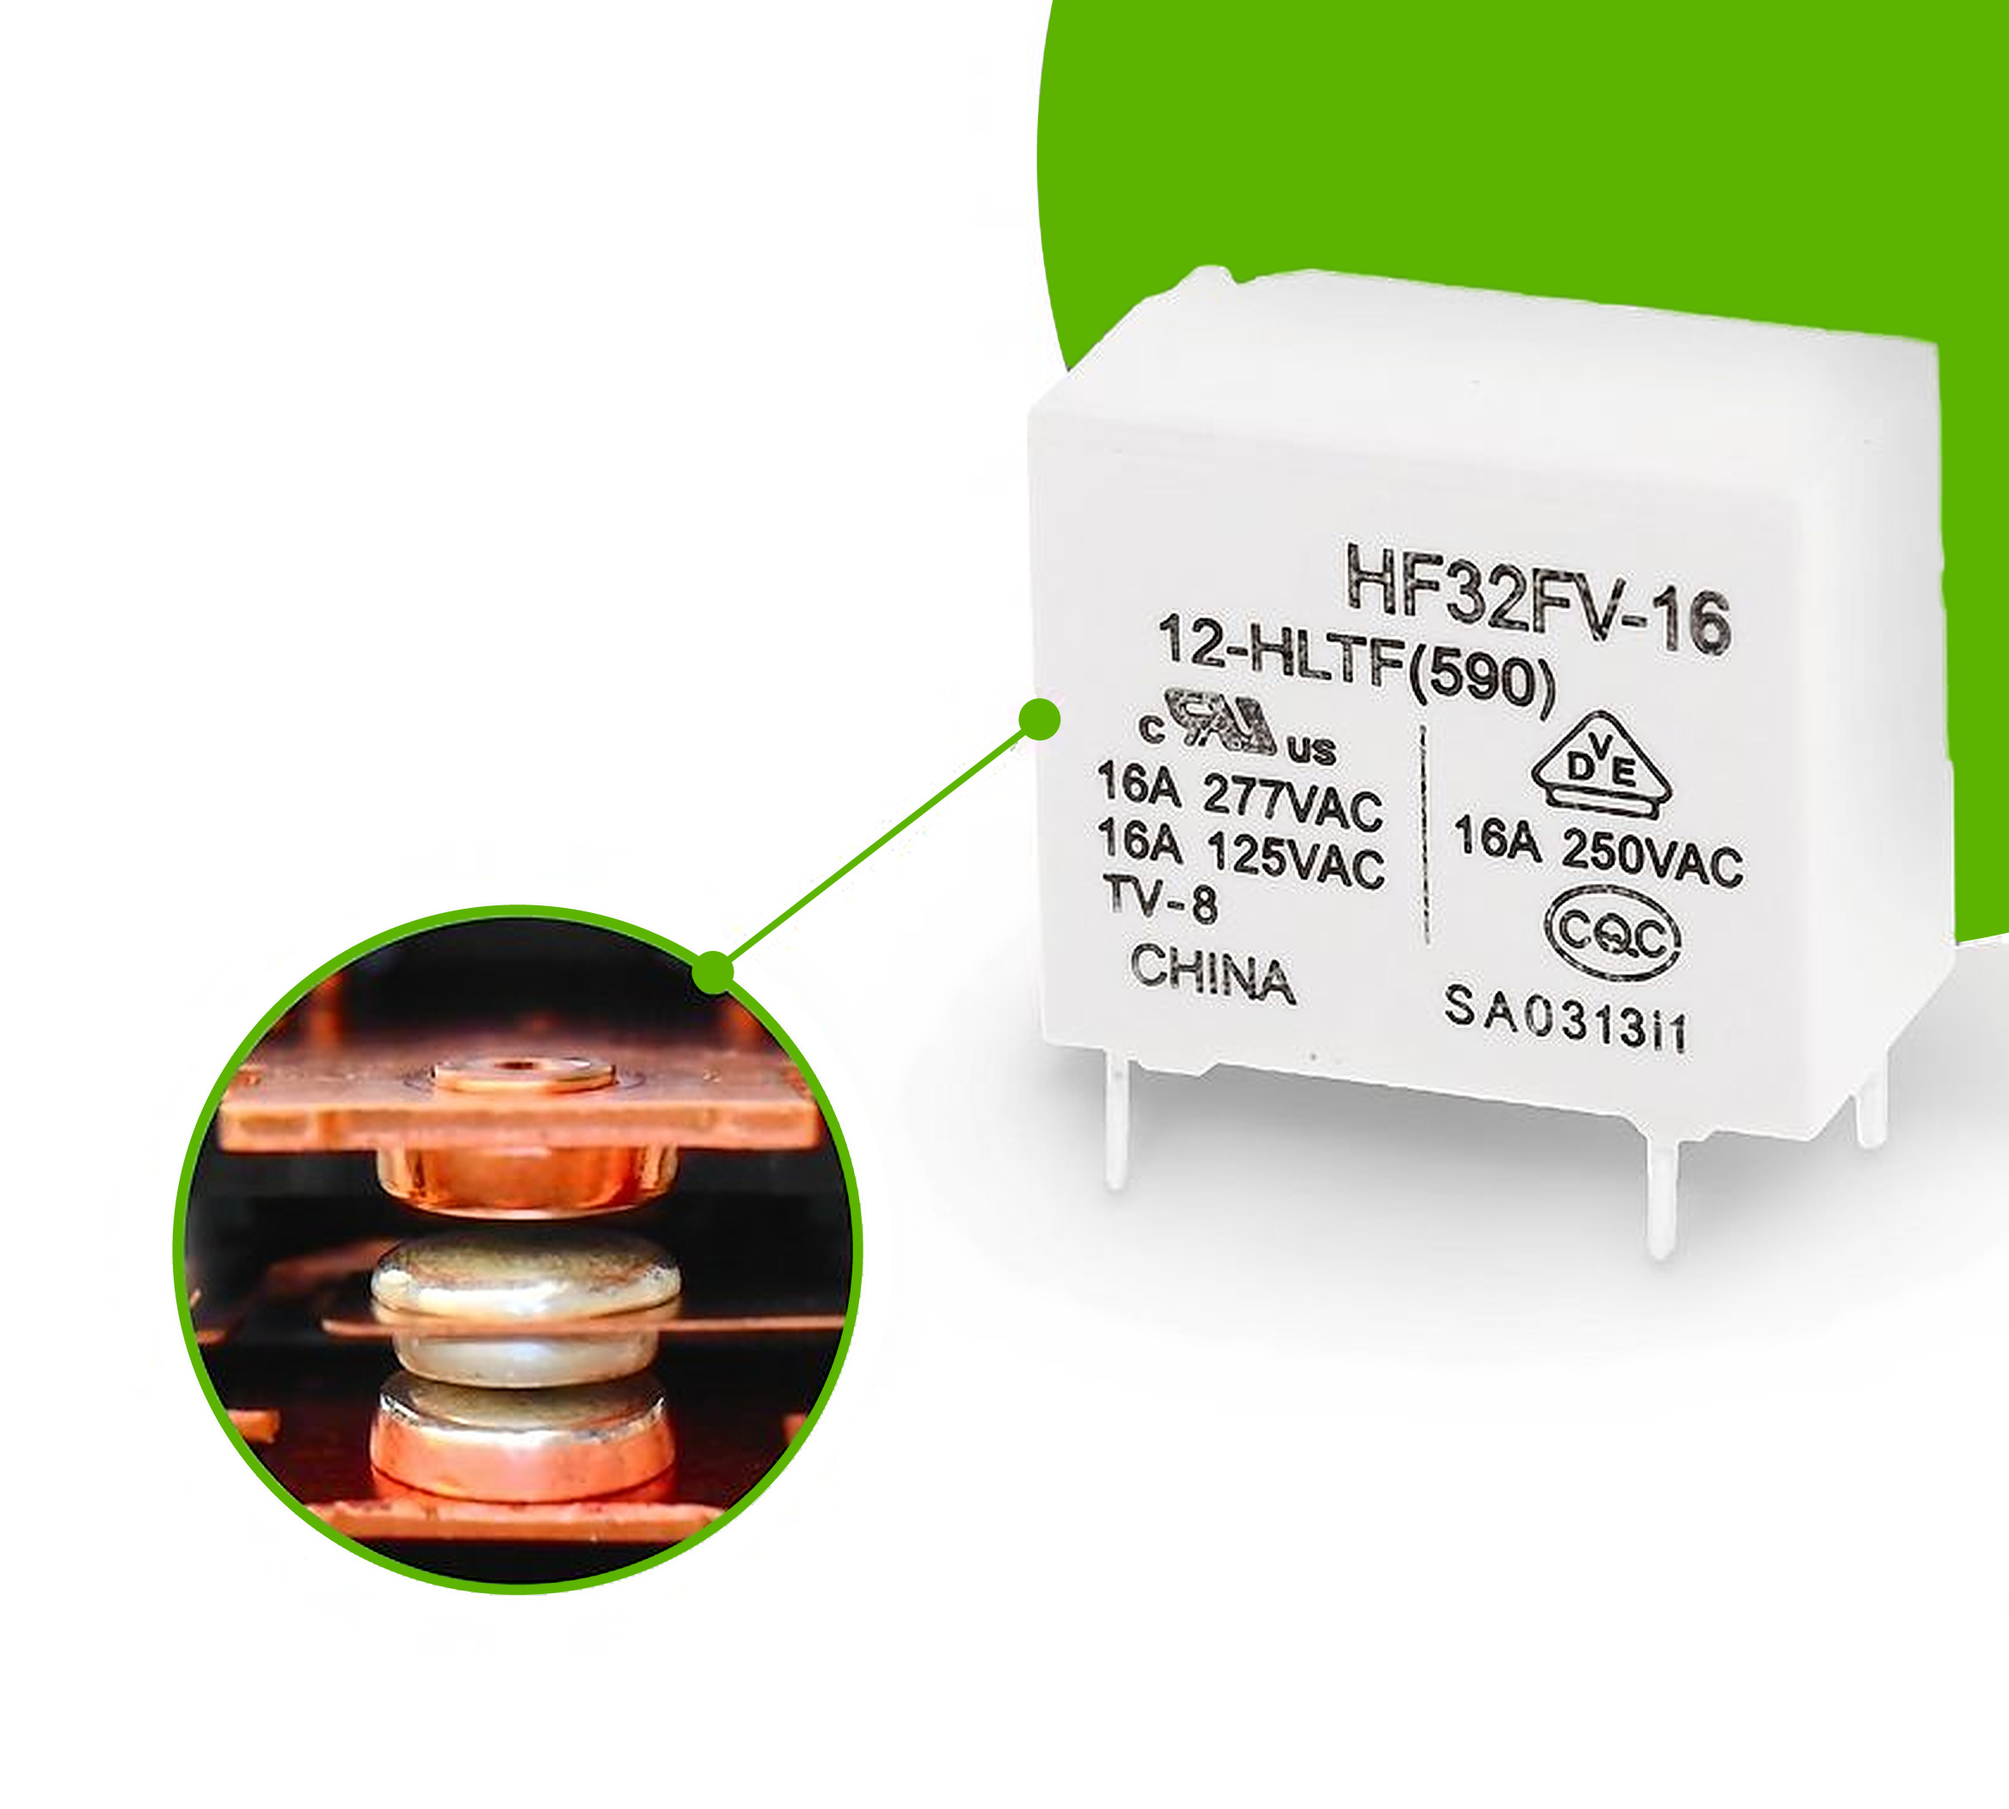
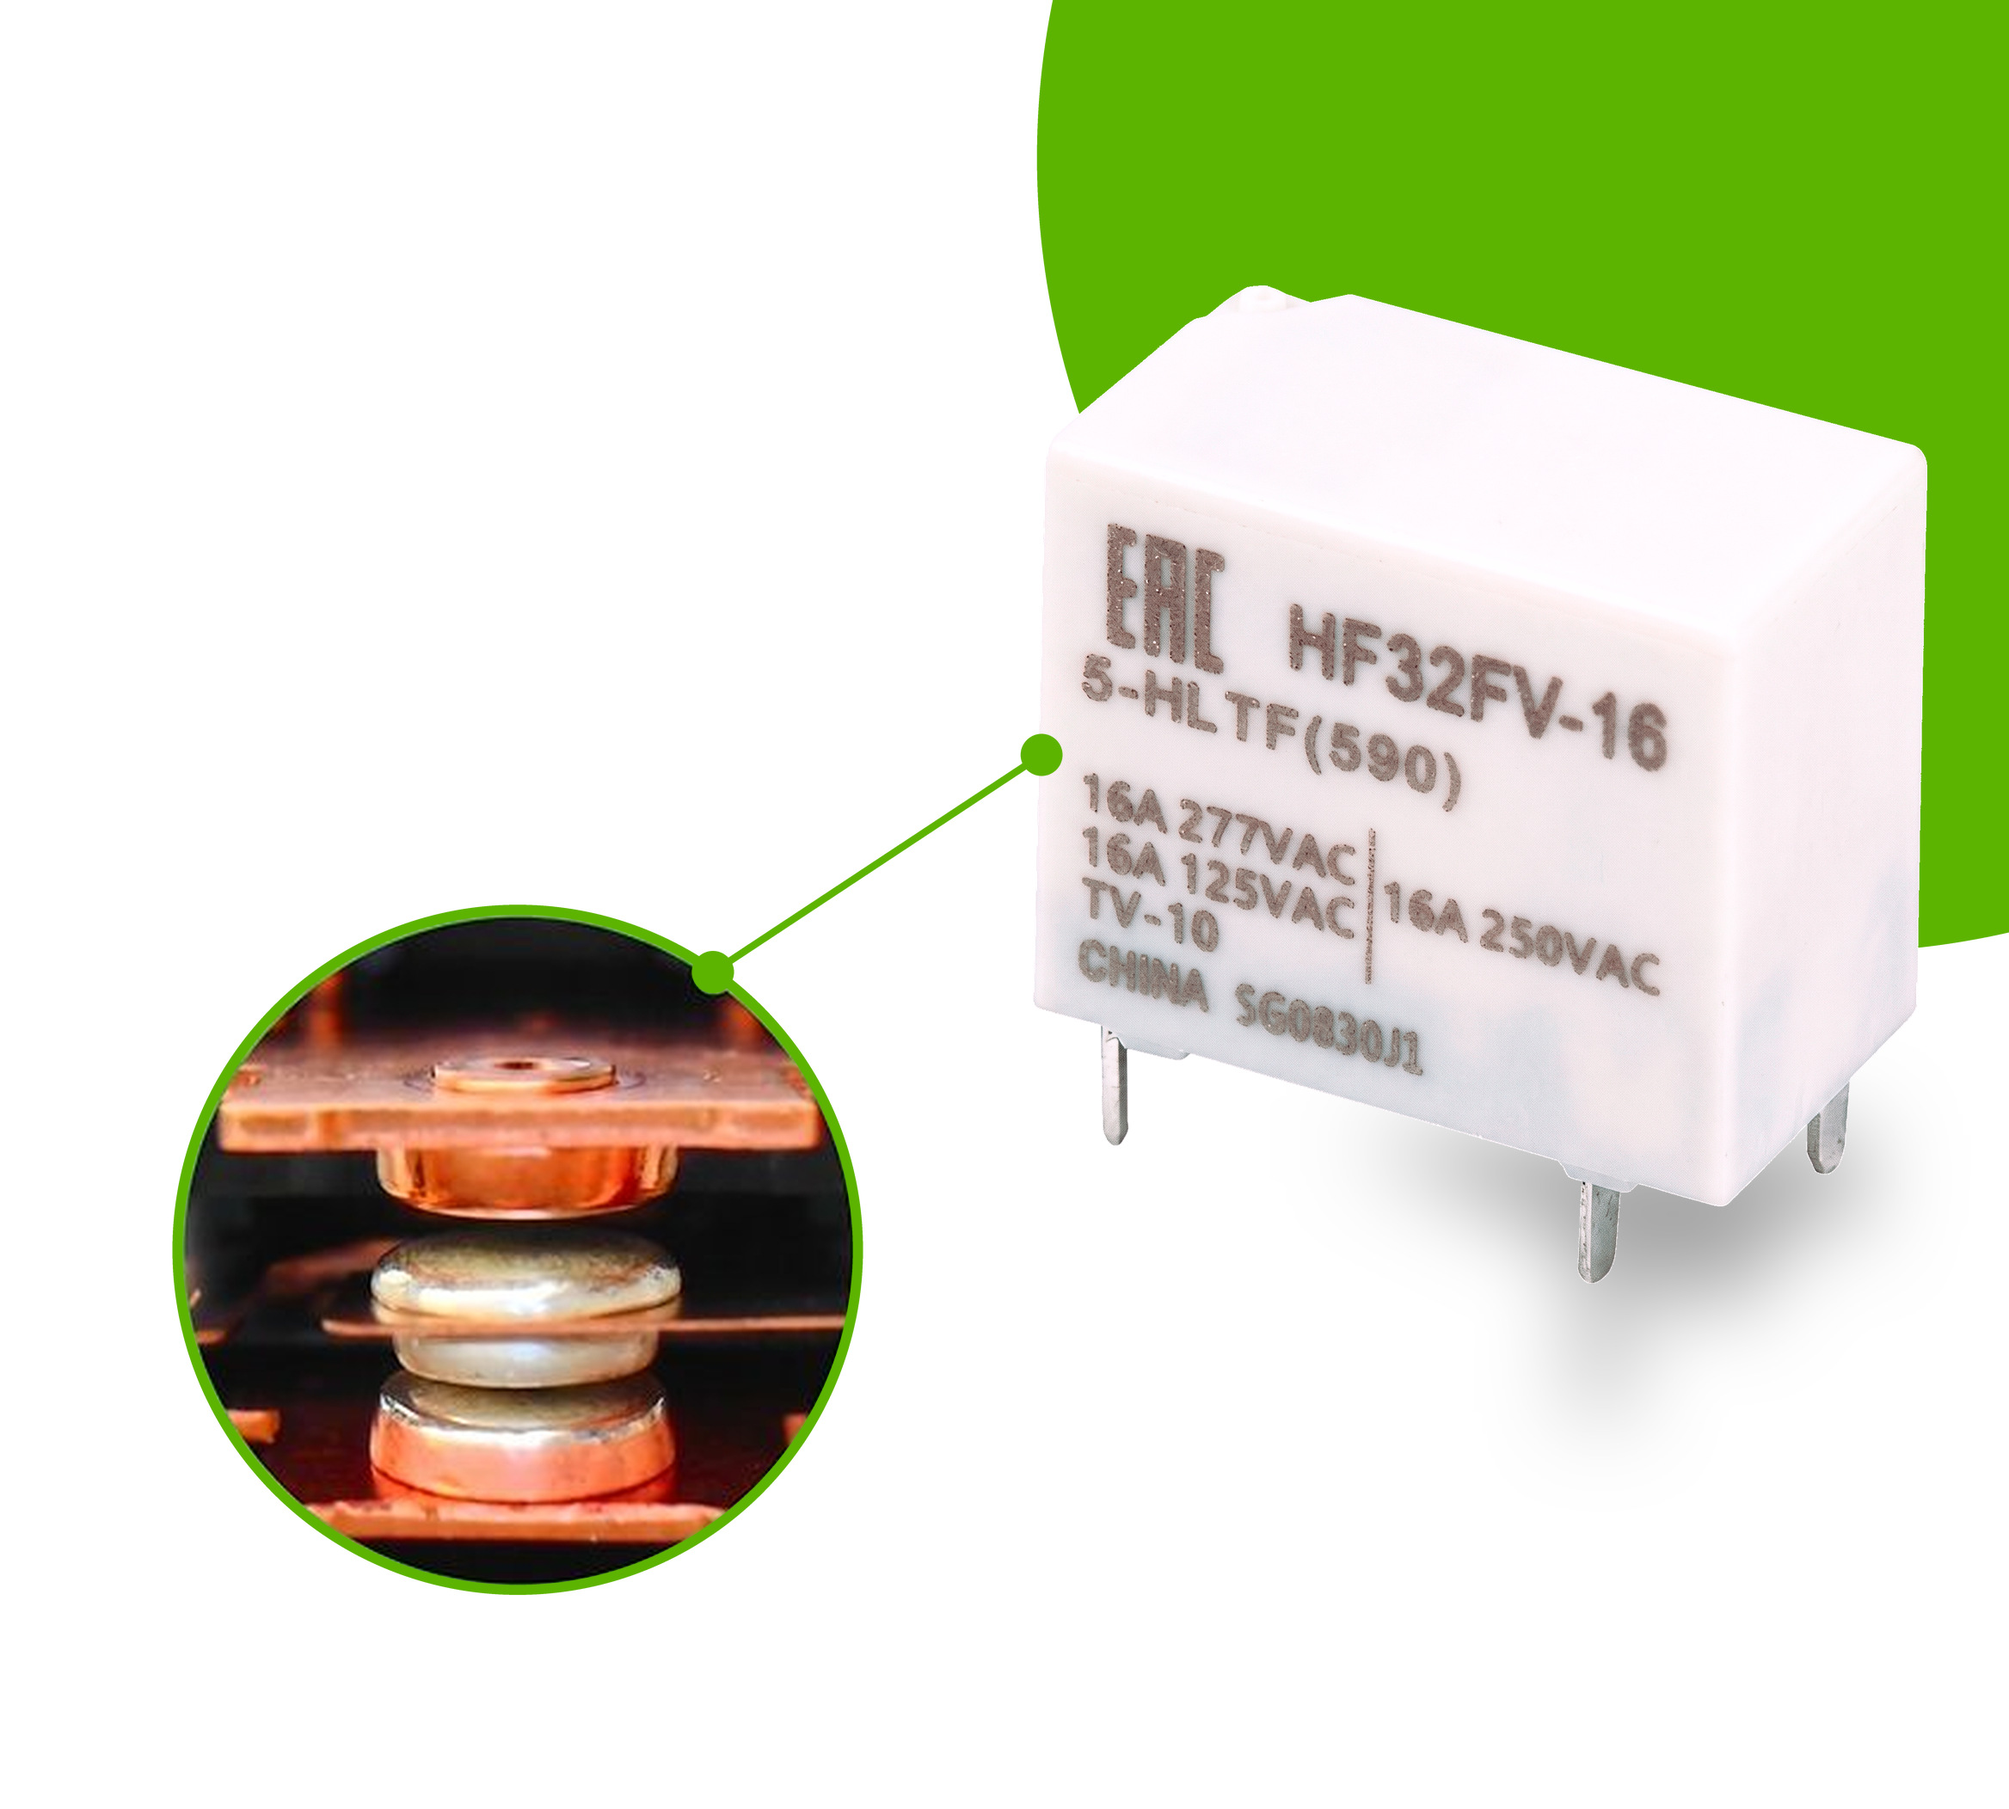
Обновил скриншоты настройки и картинки реле Hongfa у модулей WB-MR (MAR-2735)

Changed region(s): [[0.4062, 0.1236, 1.0, 0.7723], [0.375, 0.4943, 0.4062, 0.5252]]

diff --git a/content/ru/catalog/wb-mr6.md b/content/ru/catalog/wb-mr6.md
@@ -81,7 +81,7 @@ use_cases: ["zhelezno", "edselectro_bath", "comfort_life_piter_kvartira"]
 
 ::product-section{title="Долговечные реле Hongfa"}
 :photo{
-  src="wb-mr6/wb-mr6-2.png"
+  src="wb-mr6/wb-mr6-hongfa.jpg"
   width="500px"
   float="right"
 }
@@ -151,7 +151,7 @@ use_cases: ["zhelezno", "edselectro_bath", "comfort_life_piter_kvartira"]
 
 ::product-section{title="Настройка"}
 :photo{
-  src="wb-mr6/wb-mr6-7.png"
+  src="wb-mr6/wb-mr6-setup.png"
   width="500px"
   float="right"
 }
@@ -173,7 +173,7 @@ use_cases: ["zhelezno", "edselectro_bath", "comfort_life_piter_kvartira"]
 
 ::product-section{title="Чтение показаний"}
 :photo{
-  src="wb-mr6/wb-mr6-8.png"
+  src="wb-mr6/wb-mr6-readings.png"
   width="500px"
   float="right"
 }

diff --git a/content/en/catalog/wb-mr6.md b/content/en/catalog/wb-mr6.md
@@ -69,7 +69,7 @@ Specifications:
 
 ::product-section{title="Hongfa Long Life Relays"}
 :photo{
-  src="wb-mr6/wb-mr6-2.png"
+  src="wb-mr6/wb-mr6-hongfa.jpg"
   width="500px"
   float="right"
 }
@@ -137,7 +137,7 @@ Additional features are enabled automatically - if the device supports extension
 
 ::product-section{title="Setup"}
 :photo{
-  src="wb-mr6/wb-mr6-7.png"
+  src="wb-mr6/wb-mr6-setup.png"
   width="500px"
   float="right"
 }
@@ -159,7 +159,7 @@ When used with other equipment, the module can be configured via the RS-485 bus 
 
 ::product-section{title="Reading the readings"}
 :photo{
-  src="wb-mr6/wb-mr6-8.png"
+  src="wb-mr6/wb-mr6-readings.png"
   width="500px"
   float="right"
 }

diff --git a/content/en/catalog/wb-mrm2-mini.md b/content/en/catalog/wb-mrm2-mini.md
@@ -146,7 +146,7 @@ For the user, the additional features are enabled seamlessly: if the device supp
 
 ::product-section{title="Setup"}
 :photo{
-  src="wb-mrm2-mini/wb-mrm2-mini-7.png"
+  src="wb-mrm2-mini/wb-mrm2-mini-setup.png"
   width="500px"
   float="right"
 }
@@ -168,7 +168,7 @@ When used with other equipment, the module can be configured via the RS-485 bus 
 
 ::product-section{title="Reading the readings"}
 :photo{
-  src="wb-mrm2-mini/wb-mrm2-mini-8.png"
+  src="wb-mrm2-mini/wb-mrm2-mini-readings.png"
   width="500px"
   float="right"
 }

diff --git a/content/en/catalog/wb-mr6c_v3.md b/content/en/catalog/wb-mr6c_v3.md
@@ -146,7 +146,7 @@ For the user, the additional features are enabled seamlessly: if the device supp
 
 ::product-section{title="Setup"}
 :photo{
-  src="wb-mr6c_v3/wb-mr6c_v3-8.png"
+  src="wb-mr6c_v3/wb-mr6c_v3-setup.png"
   width="500px"
   float="right"
 }
@@ -168,7 +168,7 @@ When used with other equipment, the module can be configured via the RS-485 bus 
 
 ::product-section{title="Reading the readings"}
 :photo{
-  src="wb-mr6c_v3/wb-mr6c_v3-9.png"
+  src="wb-mr6c_v3/wb-mr6c_v3-readings.png"
   width="500px"
   float="right"
 }

diff --git a/content/en/catalog/wb-mr6lvl.md b/content/en/catalog/wb-mr6lvl.md
@@ -140,7 +140,7 @@ For the user, the additional features are enabled seamlessly: if the device supp
 
 ::product-section{title="Setup"}
 :photo{
-  src="wb-mr6lvl/wb-mr6lvl-7.png"
+  src="wb-mr6lvl/wb-mr6lvl-setup.png"
   width="500px"
   float="right"
 }
@@ -162,7 +162,7 @@ When used with other equipment, the module can be configured via the RS-485 bus 
 
 ::product-section{title="Reading the readings"}
 :photo{
-  src="wb-mr6lvl/wb-mr6lvl-8.png"
+  src="wb-mr6lvl/wb-mr6lvl-readings.png"
   width="500px"
   float="right"
 }

diff --git a/content/en/catalog/wb-mr6cu.md b/content/en/catalog/wb-mr6cu.md
@@ -124,7 +124,7 @@ For the user, the additional features are enabled seamlessly: if the device supp
 
 ::product-section{title="Setup"}
 :photo{
-  src="wb-mr6cu/wb-mr6cu-7.png"
+  src="wb-mr6cu/wb-mr6cu-setup.png"
   width="500px"
   float="right"
 }
@@ -143,7 +143,7 @@ When used with other equipment, the module can be configured via the RS-485 bus 
 
 ::product-section{title="Reading the readings"}
 :photo{
-  src="wb-mr6cu/wb-mr6cu-8.png"
+  src="wb-mr6cu/wb-mr6cu-readings.png"
   width="500px"
   float="right"
 }

diff --git a/content/en/catalog/wb-mrps6.md b/content/en/catalog/wb-mrps6.md
@@ -125,7 +125,7 @@ For the user, the additional features are enabled seamlessly: if the device supp
 
 ::product-section{title="Setup"}
 :photo{
-  src="wb-mrps6/wb-mrps6-6.png"
+  src="wb-mrps6/wb-mrps6-setup.png"
   width="500px"
   float="right"
 }
@@ -144,7 +144,7 @@ When used with other equipment, the module can be configured via the RS-485 bus 
 
 ::product-section{title="Reading the readings"}
 :photo{
-  src="wb-mrps6/wb-mrps6-7.png"
+  src="wb-mrps6/wb-mrps6-readings.png"
   width="500px"
   float="right"
 }

diff --git a/content/en/catalog/wb-mrwl3.md b/content/en/catalog/wb-mrwl3.md
@@ -141,7 +141,7 @@ For the user, the additional features are enabled seamlessly: if the device supp
 
 ::product-section{title="Setup"}
 :photo{
-  src="wb-mrwl3/wb-mrwl3-8.png"
+  src="wb-mrwl3/wb-mrwl3-setup.png"
   width="500px"
   float="right"
 }
@@ -163,7 +163,7 @@ When used with other equipment, the module can be configured via the RS-485 bus 
 
 ::product-section{title="Reading the readings"}
 :photo{
-  src="wb-mrwl3/wb-mrwl3-9.png"
+  src="wb-mrwl3/wb-mrwl3-readings.png"
   width="500px"
   float="right"
 }

diff --git a/content/en/catalog/wb-mr3.md b/content/en/catalog/wb-mr3.md
@@ -147,7 +147,7 @@ For the user, the additional features are enabled seamlessly: if the device supp
 
 ::product-section{title="Setup"}
 :photo{
-  src="wb-mr3/wb-mr3-8.png"
+  src="wb-mr3/wb-mr3-setup.png"
   width="500px"
   float="right"
 }
@@ -169,7 +169,7 @@ When used with other equipment, the module can be configured via the RS-485 bus 
 
 ::product-section{title="Reading the readings"}
 :photo{
-  src="wb-mr3/wb-mr3-9.png"
+  src="wb-mr3/wb-mr3-readings.png"
   width="500px"
   float="right"
 }

diff --git a/content/ru/catalog/wb-mrm2-mini.md b/content/ru/catalog/wb-mrm2-mini.md
@@ -156,7 +156,7 @@ video: [
 
 ::product-section{title="Настройка"}
 :photo{
-  src="wb-mrm2-mini/wb-mrm2-mini-7.png"
+  src="wb-mrm2-mini/wb-mrm2-mini-setup.png"
   width="500px"
   float="right"
 }
@@ -178,7 +178,7 @@ video: [
 
 ::product-section{title="Чтение показаний"}
 :photo{
-  src="wb-mrm2-mini/wb-mrm2-mini-8.png"
+  src="wb-mrm2-mini/wb-mrm2-mini-readings.png"
   width="500px"
   float="right"
 }

diff --git a/content/ru/catalog/wb-mr6c_v3.md b/content/ru/catalog/wb-mr6c_v3.md
@@ -157,7 +157,7 @@ video: [
 
 ::product-section{title="Настройка"}
 :photo{
-  src="wb-mr6c_v3/wb-mr6c_v3-8.png"
+  src="wb-mr6c_v3/wb-mr6c_v3-setup.png"
   width="500px"
   float="right"
 }
@@ -179,7 +179,7 @@ video: [
 
 ::product-section{title="Чтение показаний"}
 :photo{
-  src="wb-mr6c_v3/wb-mr6c_v3-9.png"
+  src="wb-mr6c_v3/wb-mr6c_v3-readings.png"
   width="500px"
   float="right"
 }

diff --git a/content/ru/catalog/wb-mr6lvl.md b/content/ru/catalog/wb-mr6lvl.md
@@ -151,7 +151,7 @@ video: [
 
 ::product-section{title="Настройка"}
 :photo{
-  src="wb-mr6lvl/wb-mr6lvl-7.png"
+  src="wb-mr6lvl/wb-mr6lvl-setup.png"
   width="500px"
   float="right"
 }
@@ -173,7 +173,7 @@ video: [
 
 ::product-section{title="Чтение показаний"}
 :photo{
-  src="wb-mr6lvl/wb-mr6lvl-8.png"
+  src="wb-mr6lvl/wb-mr6lvl-readings.png"
   width="500px"
   float="right"
 }
